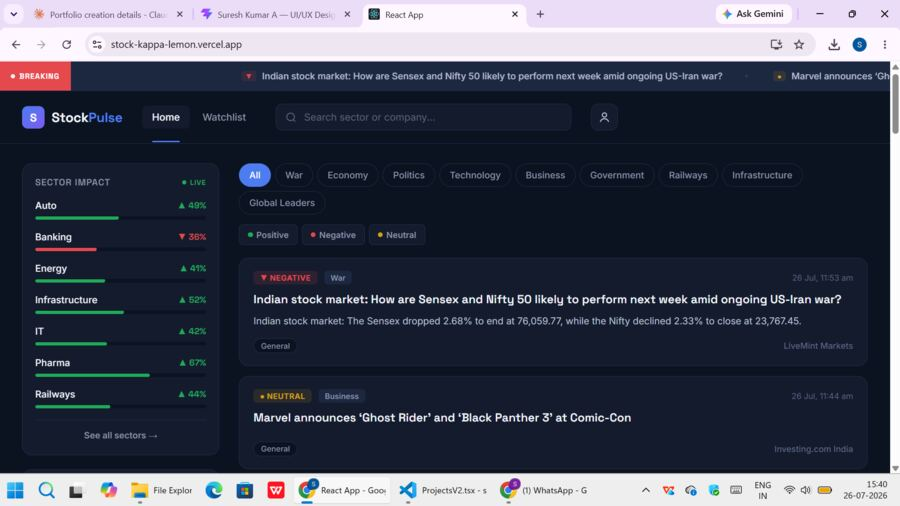
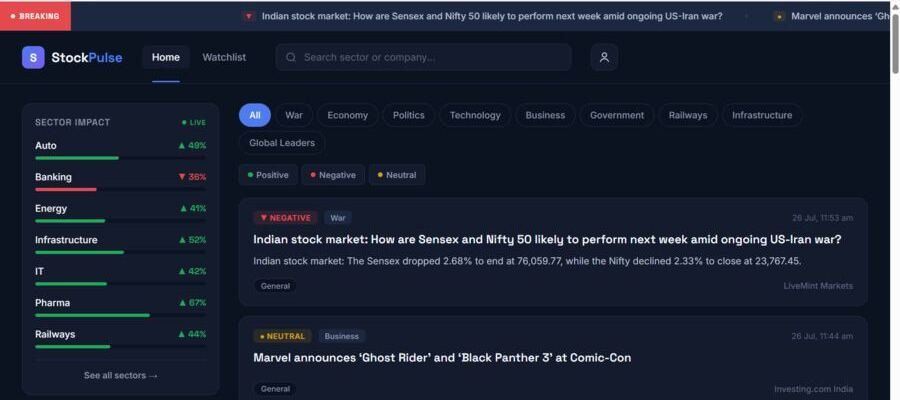
project fix

diff --git a/src/components/ProjectsV2.tsx b/src/components/ProjectsV2.tsx
@@ -83,18 +83,18 @@ function ProjectVisual({ project }: { project: typeof PROJECTS[number] }) {
 
   if (images.length >= 2) {
     return (
-      <div className="mt-6 flex flex-1 gap-3 sm:mt-8">
+      <div className="mt-5 flex flex-1 flex-row gap-2.5 sm:mt-8 sm:gap-3">
         <motion.div
           whileHover={{ scale: 1.02 }}
           transition={{ duration: 0.4, ease: [0.25, 0.1, 0.25, 1] }}
-          className="w-[45%] overflow-hidden rounded-[40px] border border-[#D7E2EA]/20 sm:rounded-[50px] md:rounded-[60px]"
+          className="h-28 w-[45%] overflow-hidden rounded-2xl border border-[#D7E2EA]/20 sm:h-auto sm:rounded-[50px] md:rounded-[60px]"
         >
           <img src={images[0]} alt={`${project.name} screenshot 1`} className="h-full w-full object-cover object-top" loading="lazy" />
         </motion.div>
         <motion.div
           whileHover={{ scale: 1.02 }}
           transition={{ duration: 0.4, ease: [0.25, 0.1, 0.25, 1] }}
-          className="w-[55%] overflow-hidden rounded-[40px] border border-[#D7E2EA]/20 sm:rounded-[50px] md:rounded-[60px]"
+          className="h-28 w-[55%] overflow-hidden rounded-2xl border border-[#D7E2EA]/20 sm:h-auto sm:rounded-[50px] md:rounded-[60px]"
         >
           <img src={images[1]} alt={`${project.name} screenshot 2`} className="h-full w-full object-cover object-top" loading="lazy" />
         </motion.div>
@@ -155,51 +155,52 @@ function ProjectCard({ project, index, total }: { project: typeof PROJECTS[numbe
   const y = useSpring(rawY, springConfig);
 
   return (
-    <div
-      ref={wrapperRef}
-      className="relative"
-      style={{ height: isLastCard ? '85vh' : '180vh' }}
-    >
-      <div
-        className="sticky h-[85vh] overflow-hidden"
-        style={{ top: `calc(6rem + ${index * 14}px)`, zIndex: index + 1 }}
-      >
+    <div ref={wrapperRef} className="relative">
+      <div className={isLastCard ? 'h-[62vh] sm:h-[85vh]' : 'h-[124vh] sm:h-[180vh]'}>
+        <div
+          className="sticky h-[62vh] sm:h-[85vh]"
+          style={{ top: `calc(6rem + ${index * 14}px)`, zIndex: index + 1 }}
+        >
         <motion.div
           initial={{ opacity: 0, y: 60 }}
           whileInView={{ opacity: 1, y: 0 }}
           viewport={{ once: true, margin: '-80px' }}
           transition={{ duration: 0.8, ease: [0.25, 0.1, 0.25, 1] }}
+          whileHover={{ borderColor: 'rgba(79,124,255,0.6)' }}
           style={{ scale, opacity, y }}
-          className="h-full overflow-hidden rounded-[40px] border-2 border-[#D7E2EA] bg-[#0C0C0C] p-4 sm:rounded-[50px] sm:p-6 md:rounded-[60px] md:p-8"
+          className="h-full overflow-hidden rounded-[40px] border-2 border-[#D7E2EA] bg-[#0C0C0C] p-4 transition-colors duration-300 sm:rounded-[50px] sm:p-6 md:rounded-[60px] md:p-8"
         >
           <div className="flex h-full flex-col">
             {/* Top row */}
-            <div className="flex flex-wrap items-start justify-between gap-4">
-              <div className="flex items-center gap-3 sm:gap-5">
+            <div className="flex flex-col gap-3 sm:flex-row sm:flex-wrap sm:items-start sm:justify-between sm:gap-4">
+              <div className="flex items-center gap-2.5 sm:gap-5">
                 <span
-                  className="font-black text-[#0C0C0C]"
+                  className="shrink-0 font-black text-[#0C0C0C]"
                   style={{
-                    fontSize: 'clamp(2rem, 6vw, 84px)',
+                    fontSize: 'clamp(1.75rem, 6vw, 84px)',
                     WebkitTextStroke: '1.5px #D7E2EA',
                   }}
                 >
                   {project.num}
                 </span>
-                <div>
-                  <p className="font-mono text-xs uppercase tracking-widest text-[#8891A7] sm:text-sm">
+                <div className="min-w-0">
+                  <p className="truncate font-mono text-[10px] uppercase tracking-widest text-[#8891A7] sm:text-xs md:text-sm">
                     {project.category}
                   </p>
-                  <h3 className="mt-1 font-display text-lg font-semibold text-[#D7E2EA] sm:text-xl md:text-2xl">
+                  <h3 className="mt-1 font-display text-base font-semibold leading-tight text-[#D7E2EA] sm:text-xl md:text-2xl">
                     {project.name}
                   </h3>
                 </div>
               </div>
-              <LiveProjectButton href={project.liveUrl} />
+              <div className="self-start sm:self-auto">
+                <LiveProjectButton href={project.liveUrl} />
+              </div>
             </div>
 
             <ProjectVisual project={project} />
           </div>
         </motion.div>
+        </div>
       </div>
     </div>
   );

diff --git a/src/components/HeroV2.tsx b/src/components/HeroV2.tsx
@@ -12,16 +12,16 @@ const NAV_LINKS = [
 
 export default function HeroV2() {
   return (
-    <section className="relative flex h-screen flex-col" style={{ overflowX: 'clip' }}>
+    <section className="relative flex min-h-screen flex-col overflow-hidden sm:h-screen">
       {/* Navbar */}
       <FadeIn delay={0} y={-20}>
-        <nav className="flex items-center justify-between px-6 pt-6 md:px-10 md:pt-8">
+        <nav className="relative z-20 flex items-center justify-between gap-2 px-5 pt-6 sm:px-6 md:px-10 md:pt-8">
           {NAV_LINKS.map((link) => (
             <a
               key={link.label}
               href={link.href}
               data-cursor-hover
-              className="text-sm font-medium uppercase tracking-wider text-[#D7E2EA] transition-opacity duration-200 hover:opacity-70 md:text-lg lg:text-[1.4rem]"
+              className="text-[11px] font-medium uppercase tracking-wider text-[#D7E2EA] transition-opacity duration-200 hover:opacity-70 sm:text-sm md:text-lg lg:text-[1.4rem]"
             >
               {link.label}
             </a>
@@ -30,17 +30,18 @@ export default function HeroV2() {
       </FadeIn>
 
       {/* Hero heading */}
-      <div className="mt-6 overflow-hidden sm:mt-4 md:-mt-5">
+      <div className="relative z-0 mt-10 overflow-hidden px-4 sm:mt-10 sm:px-0 md:mt-8">
         <FadeIn delay={0.15} y={40}>
-          <h1 className="hero-heading w-full whitespace-nowrap text-center font-display text-[9vw] font-black uppercase leading-none tracking-tight sm:text-[8vw] md:text-[7vw] lg:text-[6.5vw]">
+          <h1 className="hero-heading w-full whitespace-nowrap text-center font-display text-[11.5vw] font-black uppercase leading-none tracking-tight sm:text-[8.5vw] md:text-[7vw] lg:text-[6.5vw]">
             hi, i&apos;m suresh
           </h1>
         </FadeIn>
       </div>
 
-      {/* Portrait — Magnet effect */}
-      <div className="pointer-events-none absolute left-1/2 top-1/2 z-10 w-[240px] -translate-x-1/2 -translate-y-1/2 sm:top-auto sm:w-[300px] sm:translate-y-0 sm:bottom-0 md:w-[360px] lg:w-[420px]">
-        <div className="pointer-events-auto">
+      {/* Portrait — normal flow on mobile (no overlap). From sm+, absolute relative to the
+          whole section (not a flex sibling) so it never fights heading/nav for space. */}
+      <div className="relative z-10 mt-8 flex justify-center sm:mt-0 sm:contents">
+        <div className="w-[190px] sm:absolute sm:bottom-6 sm:left-1/2 sm:w-[280px] sm:-translate-x-1/2 md:bottom-8 md:w-[340px] lg:w-[400px]">
           <Magnet padding={150} strength={5} activeTransition="transform 0.3s ease-out" inactiveTransition="transform 0.6s ease-in-out">
             <FadeIn delay={0.6} y={30}>
               <img
@@ -54,12 +55,15 @@ export default function HeroV2() {
         </div>
       </div>
 
+      {/* Spacer to push bottom bar down on mobile where portrait is in normal flow */}
+      <div className="flex-1 sm:hidden" />
+
       {/* Bottom bar */}
-      <div className="mt-auto flex items-end justify-between px-6 pb-7 sm:pb-8 md:px-10 md:pb-10">
+      <div className="relative z-20 mt-8 flex flex-col items-center gap-5 px-5 pb-8 sm:mt-auto sm:flex-row sm:items-end sm:justify-between sm:px-6 sm:pb-8 md:px-10 md:pb-10">
         <FadeIn delay={0.35} y={20}>
           <p
-            className="max-w-[160px] font-light uppercase leading-snug tracking-wide text-[#D7E2EA] sm:max-w-[220px] md:max-w-[260px]"
-            style={{ fontSize: 'clamp(0.75rem, 1.4vw, 1.5rem)' }}
+            className="max-w-[260px] text-center font-light uppercase leading-snug tracking-wide text-[#D7E2EA] sm:max-w-[220px] sm:text-left md:max-w-[260px]"
+            style={{ fontSize: 'clamp(0.8rem, 1.4vw, 1.5rem)' }}
           >
             UI/UX designer &amp; full stack developer building clean digital experiences
           </p>

diff --git a/src/components/LiveProjectButton.tsx b/src/components/LiveProjectButton.tsx
@@ -1,21 +1,39 @@
+import { motion } from 'framer-motion';
+import { ArrowUpRight } from 'lucide-react';
+
 interface LiveProjectButtonProps {
   href?: string;
   className?: string;
 }
 
 export default function LiveProjectButton({ href, className = '' }: LiveProjectButtonProps) {
-  const content = 'Live Project';
-  const baseClasses = `inline-flex items-center justify-center rounded-full border-2 border-[#D7E2EA] px-8 py-3 text-sm font-medium uppercase tracking-widest text-[#D7E2EA] transition-colors duration-200 hover:bg-[#D7E2EA]/10 sm:px-10 sm:py-3.5 sm:text-base ${className}`;
+  const baseClasses = `inline-flex items-center gap-1.5 rounded-full border-2 border-[#D7E2EA] px-6 py-2.5 text-xs font-medium uppercase tracking-widest text-[#D7E2EA] sm:px-8 sm:py-3 sm:text-sm ${className}`;
 
   if (href) {
     return (
-      <a href={href} target="_blank" rel="noreferrer" data-cursor-hover className={baseClasses}>
-        {content}
-      </a>
+      <motion.a
+        href={href}
+        target="_blank"
+        rel="noreferrer"
+        data-cursor-hover
+        className={baseClasses}
+        whileHover={{ scale: 1.06, backgroundColor: 'rgba(215,226,234,0.12)' }}
+        whileTap={{ scale: 0.95 }}
+        transition={{ type: 'spring', stiffness: 400, damping: 20 }}
+      >
+        Live Project
+        <motion.span
+          initial={{ x: 0, y: 0 }}
+          whileHover={{ x: 2, y: -2 }}
+          transition={{ type: 'spring', stiffness: 400, damping: 15 }}
+        >
+          <ArrowUpRight size={14} />
+        </motion.span>
+      </motion.a>
     );
   }
   return (
-    <span className={`${baseClasses} cursor-default opacity-60`}>
+    <span className={`${baseClasses} cursor-default opacity-50`}>
       Coming Soon
     </span>
   );

diff --git a/src/components/ContactButton.tsx b/src/components/ContactButton.tsx
@@ -1,3 +1,5 @@
+import { motion } from 'framer-motion';
+
 interface ContactButtonProps {
   href?: string;
   onClick?: () => void;
@@ -5,12 +7,15 @@ interface ContactButtonProps {
 }
 
 export default function ContactButton({ href = '#contact', onClick, className = '' }: ContactButtonProps) {
-  const Tag = onClick ? 'button' : 'a';
+  const Tag = onClick ? motion.button : motion.a;
   return (
     <Tag
       {...(onClick ? { onClick, type: 'button' } : { href })}
       data-cursor-hover
-      className={`inline-flex items-center justify-center rounded-full px-8 py-3 text-xs font-medium uppercase tracking-widest text-white transition-transform duration-300 hover:scale-[1.03] sm:px-10 sm:py-3.5 sm:text-sm md:px-12 md:py-4 md:text-base ${className}`}
+      whileHover={{ scale: 1.05, boxShadow: '0px 6px 20px rgba(181, 1, 167, 0.4), 4px 4px 16px #7721B1 inset' }}
+      whileTap={{ scale: 0.96 }}
+      transition={{ type: 'spring', stiffness: 400, damping: 20 }}
+      className={`inline-flex items-center justify-center rounded-full px-8 py-3 text-xs font-medium uppercase tracking-widest text-white sm:px-10 sm:py-3.5 sm:text-sm md:px-12 md:py-4 md:text-base ${className}`}
       style={{
         background:
           'linear-gradient(123deg, #18011F 7%, #B600A8 37%, #7621B0 72%, #BE4C00 100%)',

diff --git a/src/components/AnimatedText.tsx b/src/components/AnimatedText.tsx
@@ -42,7 +42,16 @@ export default function AnimatedText({ text, className = '', style }: AnimatedTe
   const chars = text.split('');
 
   return (
-    <p ref={ref} className={className} style={style}>
+    <p
+      ref={ref}
+      className={className}
+      style={{
+        ...style,
+        userSelect: 'none',
+        WebkitUserSelect: 'none',
+        touchAction: 'pan-y',
+      }}
+    >
       {chars.map((char, i) => (
         <AnimatedChar key={i} char={char} index={i} total={chars.length} progress={scrollYProgress} />
       ))}

diff --git a/src/index.css b/src/index.css
@@ -50,6 +50,9 @@ body {
   -webkit-background-clip: text;
   background-clip: text;
   -webkit-text-fill-color: transparent;
+  user-select: none;
+  -webkit-user-select: none;
+  touch-action: pan-y;
 }
 
 .glass {
